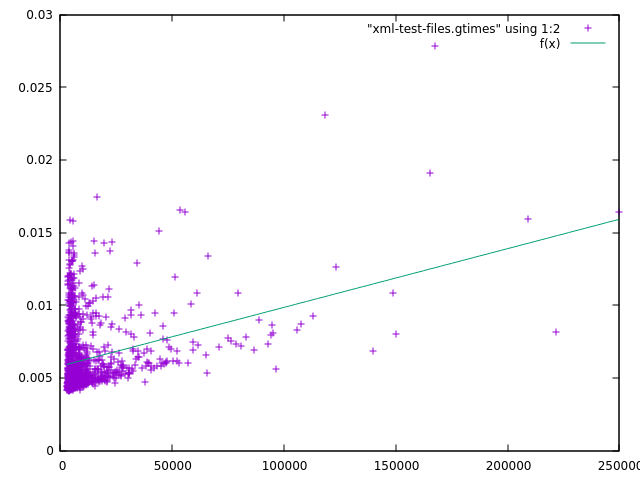
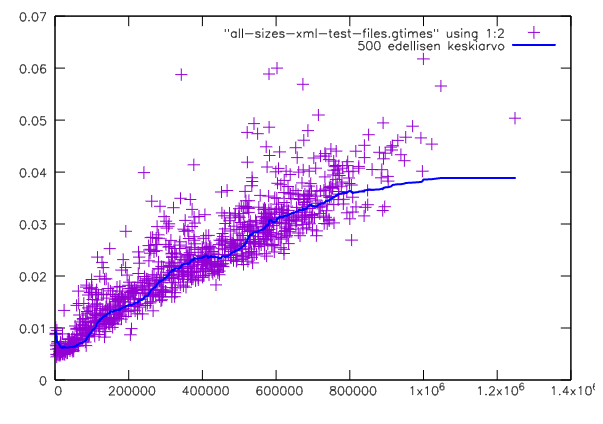
paranneltu suorituskykytestausta

diff --git a/dokumentaatio/raportti.md b/dokumentaatio/raportti.md
@@ -126,14 +126,16 @@ Kuten ylempänä sanotaan:
 
 > Koska algoritmi koostuu kolmesta sisäkkäisestä silmukasta, jotka iteroivat maksimissaan _n_, _k_ ja _n_ arvoa, missä _n_ on tiedoston koko ja _k_ on tutkittavan ympäristön koko, on algoritmin aikavaativuuden yläraja O(n²k). Vastaavasti purkamisen aikavaativuuden yläraja on O(nk).
 
-Suorituskyvyn testaamiseksi mitattiin suoritusaika jokaisen XML-tiedoston pakkaamiselle ja purkamiselle yhteensä. Tulokset on esitetty alla olevassa kuvassa. Kuvan pystyakselilla on suoritusaika sekunneissa ja vaaka-akselilla tiedoston koko tavuissa. Kuvassa on myös pisteisiin sovitettu suora.
+Suorituskyvyn testaamiseksi mitattiin suoritusaika jokaisen XML-tiedoston pakkaamiselle ja purkamiselle yhteensä. Tulokset on esitetty alla olevassa kuvassa. Kuvan pystyakselilla on suoritusaika sekunneissa ja vaaka-akselilla tiedoston koko tavuissa. Kuvassa on myös pisteisiin sovitettu 500 datapisteen liukuva keskiarvo.
+
+XML-tiedostoista luotiin yhdistelemällä aineisto, jossa oli mukana tasaisesti erikokoisia tiedostoja.
 
 ![tulokset](xml-suorituskyky.png)
 
-Kuten kuva osoittaa, suoritusaika näyttäisi olevan lineaarinen tiedoston koon suhteen, kun _n_ < 0,2 Mt. Tekstitiedosto-tyyppiselle datalle suoritusaika on siis hyvä.
+Kuten kuva osoittaa, suoritusaika näyttäisi olevan lineaarinen tiedoston koon suhteen, kun _n_ < 1 Mt. Tekstitiedosto-tyyppiselle datalle suoritusaika on siis hyvä.
 
 #### Vertailu gzip-ohjelmaan
 
-Alla on esitetty gzip-ohjelman pakkaamiseen ja purkamiseen käyttämä aika kunkin tekstitiedoston kohdalla samalla tavalla kuin aiemmassa kuvassa. Ohjelma pärjää erinomaisesti. Sen käyttämä minimiaika ja keskimääräinen aika näyttävät nousevan lineaarisesti suhteessa tiedoston kokoon, mutta koska isompia tiedostoja on vähän, tätä on vaikea sanoa tarkasti. Suurin osa isompien tiedostojen suoritusajoista osuu samalle vaihteluvälille kuin pienten tiedostojen suoritusajat (n. 0,005–0,015). Yksittäisillä tiedostoilla on kulunut vaihteluväliä huomattavasti suurempi aika, jopa n. 0,028, mutta otos ei ole kovin suuri.
+Alla on esitetty gzip-ohjelman pakkaamiseen ja purkamiseen käyttämä aika kunkin tekstitiedoston kohdalla samalla tavalla kuin aiemmassa kuvassa. Ohjelma pärjää erinomaisesti. Sen minimiaikavaativuus näyttää nousevan lineaarisesti, mutta pieni osa tiedostoista on vaatinut myös huomattavasti sovitetun suoran yläpuolella olevia arvoja, joten maksimiaikavaativuutta ei voida päätellä varmasti tämän testin perusteella. Keskimääräisesti aikavaativuus kuitenkin vaikuttaa lineaariselta.
 
 ![tulokset](xml-suorituskyky-gzip.png)

diff --git a/dokumentaatio/viikkoraportti6.md b/dokumentaatio/viikkoraportti6.md
@@ -1,9 +1,9 @@
-# Viikkoraportti 5
+# Viikkoraportti 6
 
 ## Mitä tein
 
 - Kirjoitin vertaisarvioinnin.
-- Korjasin testausdokumenttia
+- Korjasin testausdokumenttia. Tein suorituskykytestauksen uudestaan uudella aineistolla, jossa oli mukana tasaisesti erikokoisia tiedostoja. Lisäksi sovitin suoran sijasta liukuvan keskiarvon.
 
 ## Projektin edistys
 
@@ -11,7 +11,7 @@
 
 ## Mitä opin
 
-- Opin, että kuvaajia pitää kuvailla tarkemmin
+- Miten Gnuplotilla piirretään liukuva keskiarvo
 
 ## Epäselvyydet
 
@@ -23,4 +23,4 @@
 
 ## Käytetty aika
 
-Käytin aikaa n. 2 tuntia.
+Käytin aikaa n. 4 tuntia.
